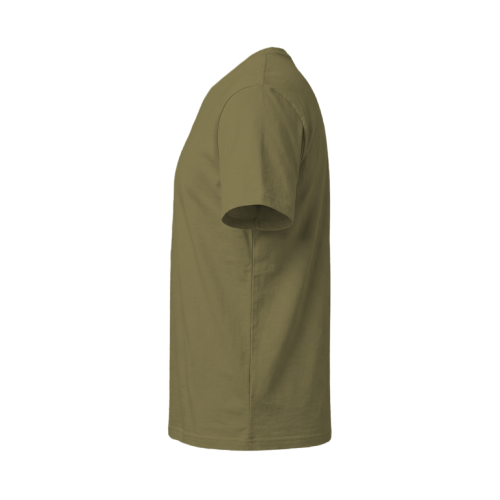
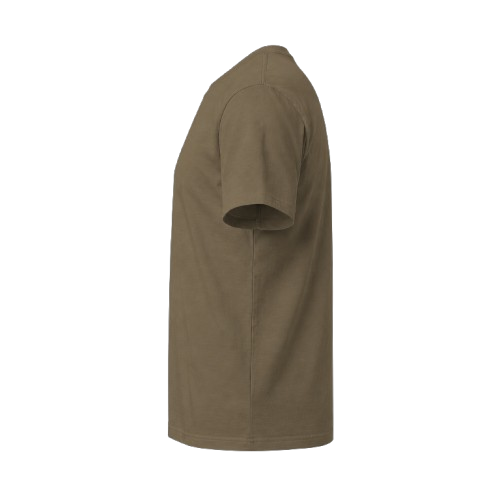
feat: rename 'Vert olive' to 'Noyer' and update references in the configurator

diff --git a/assets/conf-palettes.js b/assets/conf-palettes.js
@@ -102,7 +102,9 @@
     { numero: '01',  nom: 'Blanc',              hex: '#fefefd', slug: 'blanc', bordure: true },
     { numero: '07',  nom: 'Camel',              hex: '#bf9f7f', slug: 'camel' },
     { numero: '229', nom: 'Rose taupe',         hex: '#d9b8a7', slug: 'rose-taupe' },
-    { numero: '67',  nom: 'Vert olive',         hex: '#766e4a', slug: 'vert-olive' },
+    /* Ex-« Vert olive » (#766e4a), renommée le 02/10/2026. Le slug reste
+       'vert-olive' : c'est le nom des fichiers d'images. */
+    { numero: '67',  nom: 'Noyer',              hex: '#6c614d', slug: 'vert-olive' },
     { numero: '87',  nom: 'Marron chocolat',    hex: '#683d2f', slug: 'marron-chocolat' },
     { numero: '03',  nom: 'Jaune vif',          hex: '#fee403', slug: 'jaune-vif' },
     { numero: '31',  nom: 'Orange vif',         hex: '#f08b2c', slug: 'orange-vif' },
